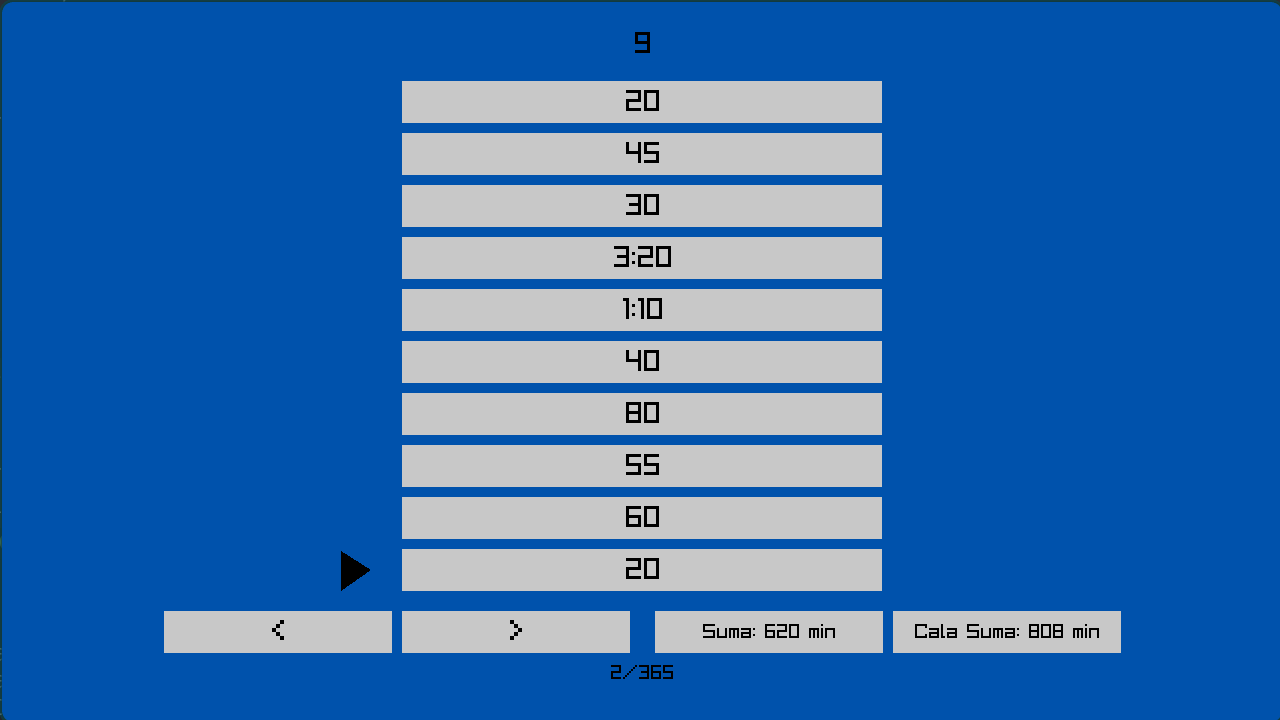
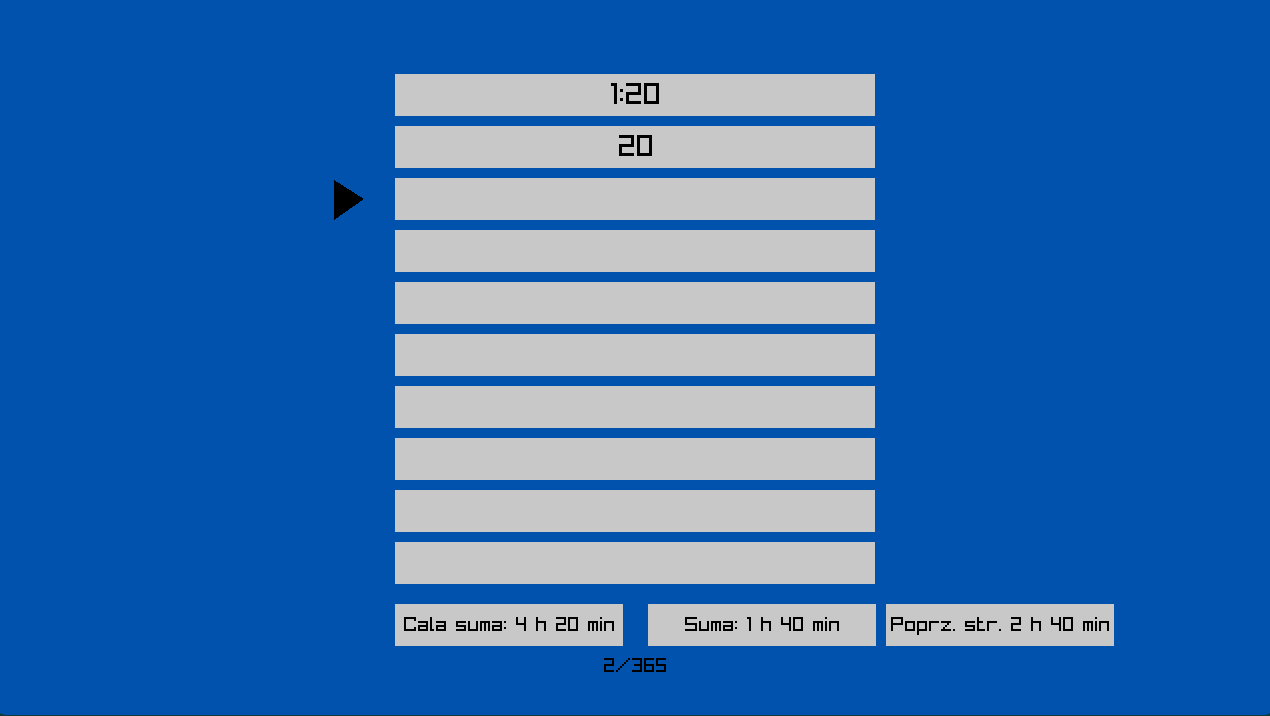
added new screenshot to better represent current status of project

diff --git a/src/main.c b/src/main.c
@@ -282,8 +282,8 @@ int main(int argc, char **argv){
 
     }
 
-    TextRow trBackButton = NewButton("<",WWCENTER - (WROW / 2) - (WBUT + 10),(iPosyLast + HROW + 20),WBUT,HBUT);
-    DrawRow(trBackButton,NULL,40);
+    //TextRow trBackButton = NewButton("<",WWCENTER - (WROW / 2) - (WBUT + 10),(iPosyLast + HROW + 20),WBUT,HBUT);
+    //DrawRow(trBackButton,NULL,40);
     //TextRow trForwardButton = NewButton(">",WWCENTER - (WROW / 2),(iPosyLast + HROW + 20),WBUT,HBUT);
     //DrawRow(trForwardButton,NULL,40);
 
@@ -449,7 +449,7 @@ int main(int argc, char **argv){
     chpIndexOfRow = malloc(sizeof(iIndexOfRow));
     sprintf(chpIndexOfRow, "%d", iIndexOfRow);
 
-    DrawText(chpIndexOfRow, WWCENTER - (MeasureText(chpIndexOfRow,30) / 2), iPosyStart,30,BLACK);
+    //DrawText(chpIndexOfRow, WWCENTER - (MeasureText(chpIndexOfRow,30) / 2), iPosyStart,30,BLACK);
     array[iIndexOfPage][iIndexOfRow] = chpTextBuffer;
 
 // INPUT SECTION
